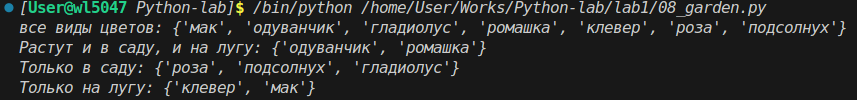
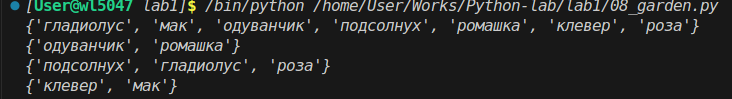
lab_1

diff --git a/lab1/README.md b/lab1/README.md
@@ -237,6 +237,8 @@ print(garden_set & meadow_set)
 print(garden_set - meadow_set)
 print(meadow_set - garden_set)
 ```
+**Скриншот**:  
+![Задание 8 - Цветы](images/08.png)
 
 ## Задание 9. Сравнение цен в магазинах
 
